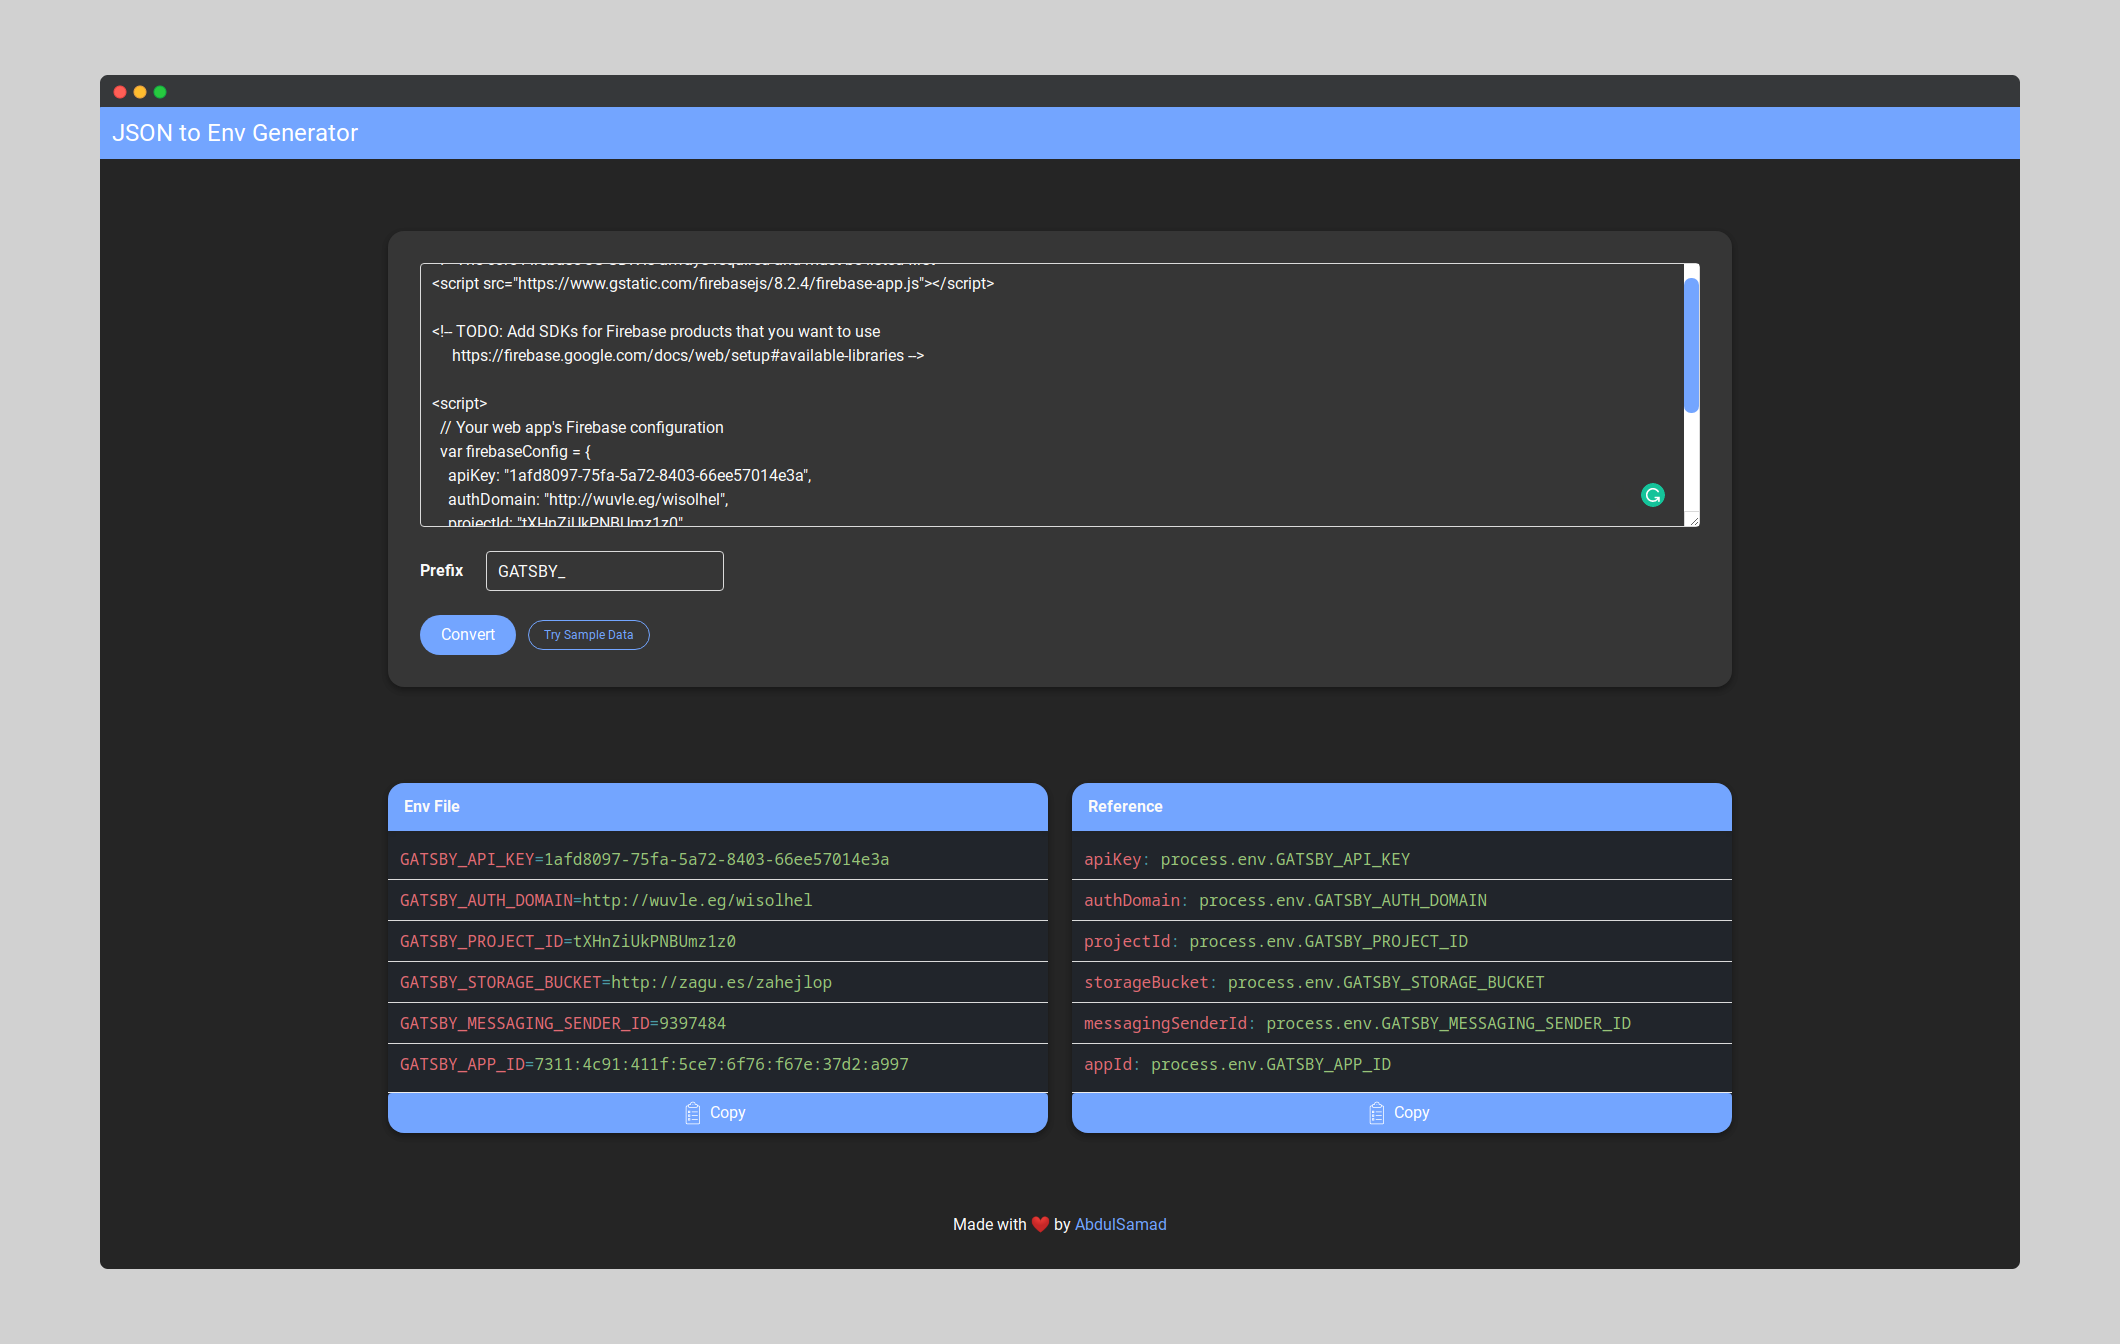
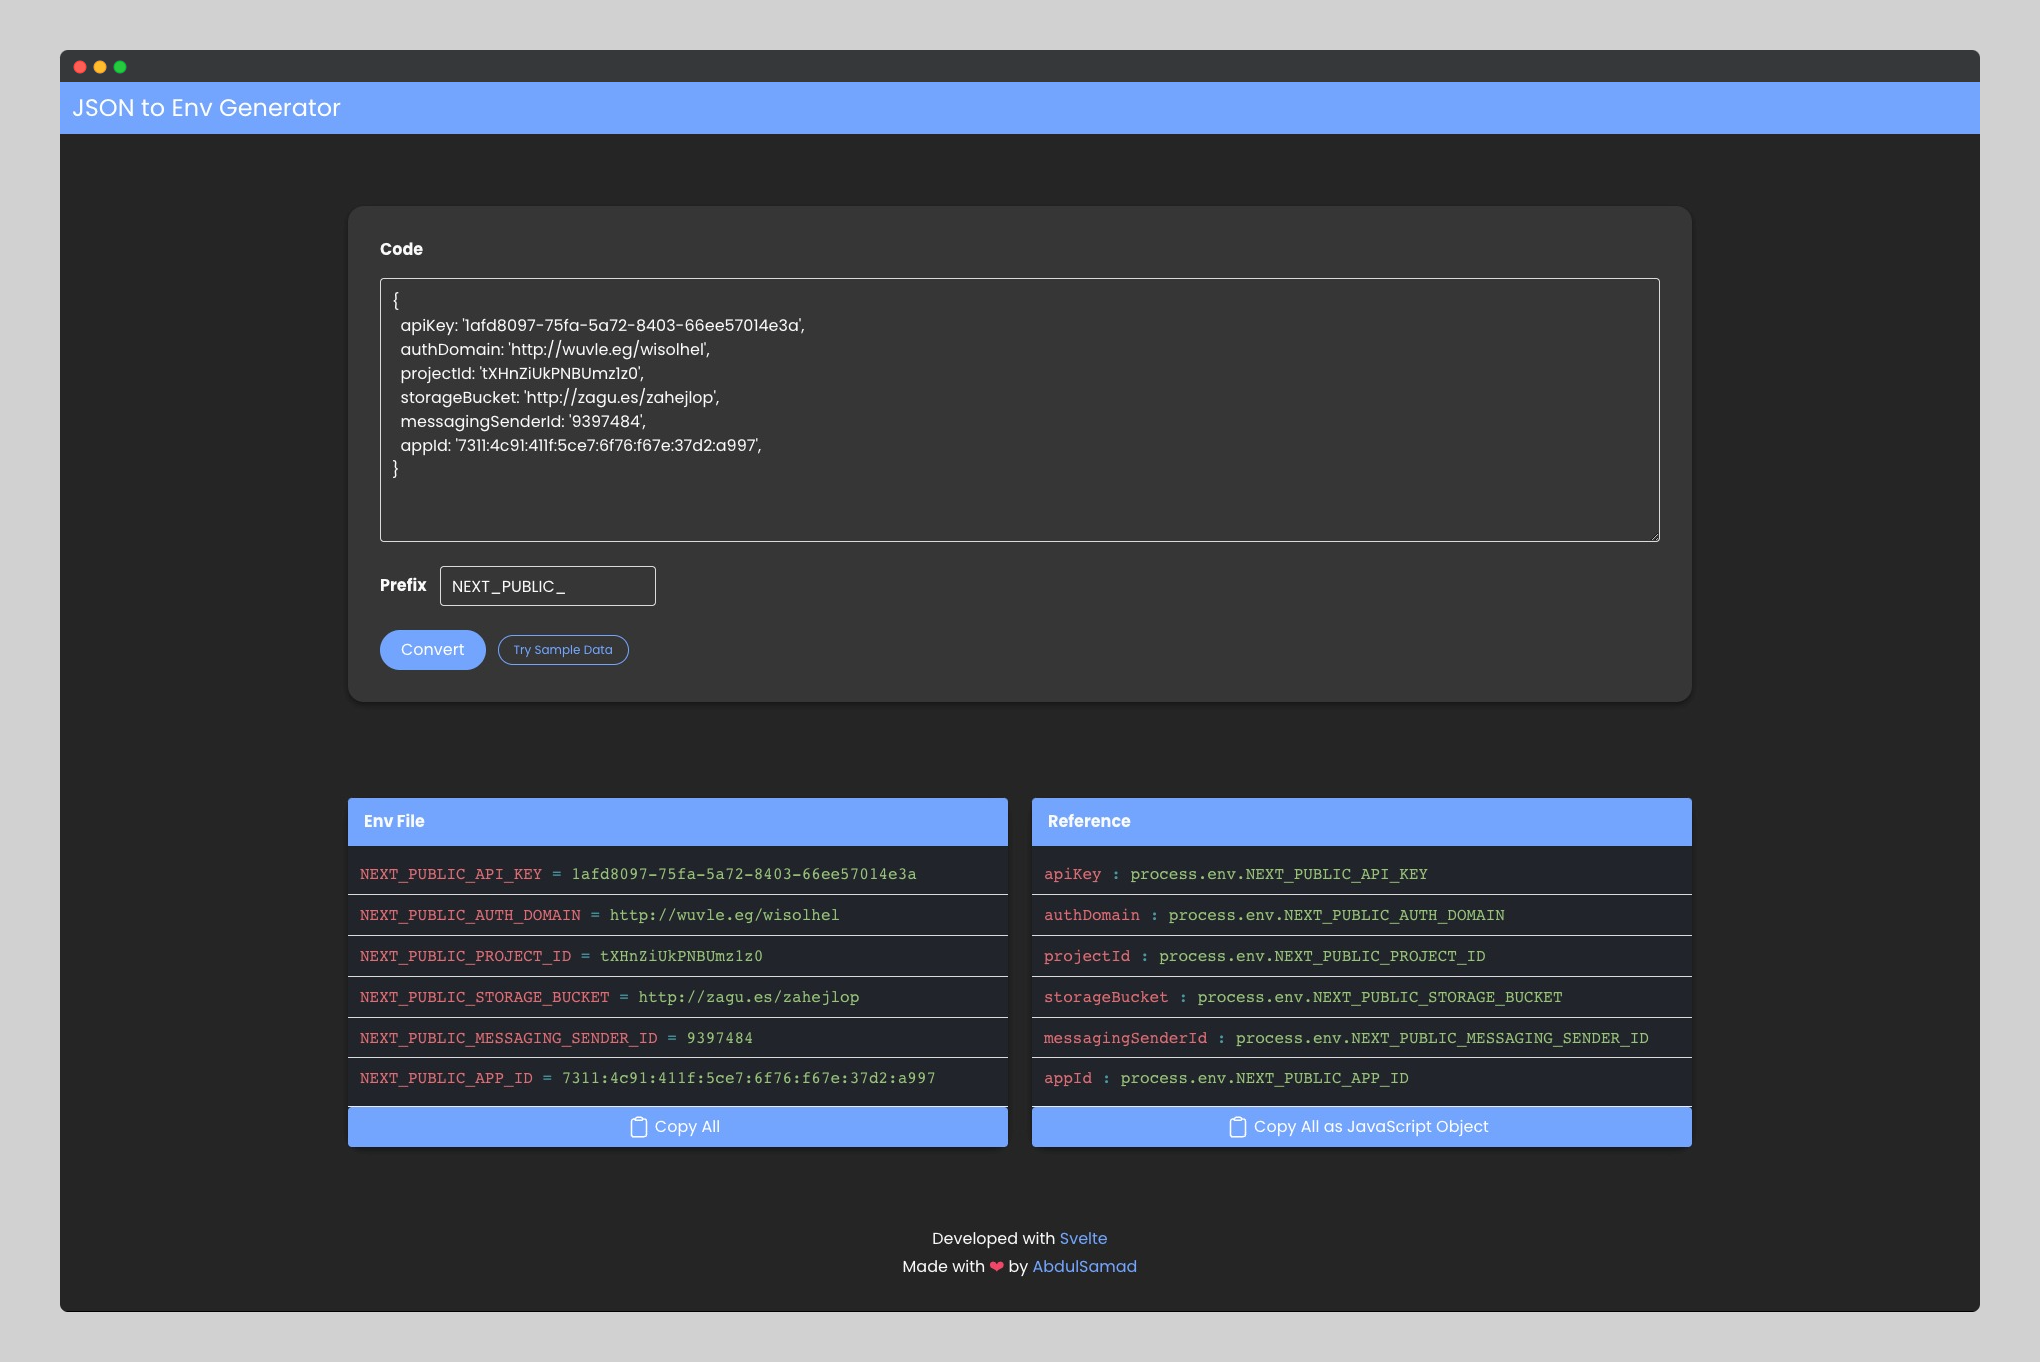
:memo: Updated README

diff --git a/README.md b/README.md
@@ -1,7 +1,7 @@
 ## JSON to Env Generator
 JSON to Env Generator to convert a JSON config into .env with an optional prefix and reference. You can paste a config object (e.g firebase config) and it will output you the environment variables and javascript reference for environment variables.
 
-**Rewritten in Svelte**
+I have completely rewritten this application from scratch using Svelte. Svelte is a modern JavaScript framework that allows us to build powerful, reactive web applications with minimal code.
 
 > **Note:** Nested objects are not supported.
 
